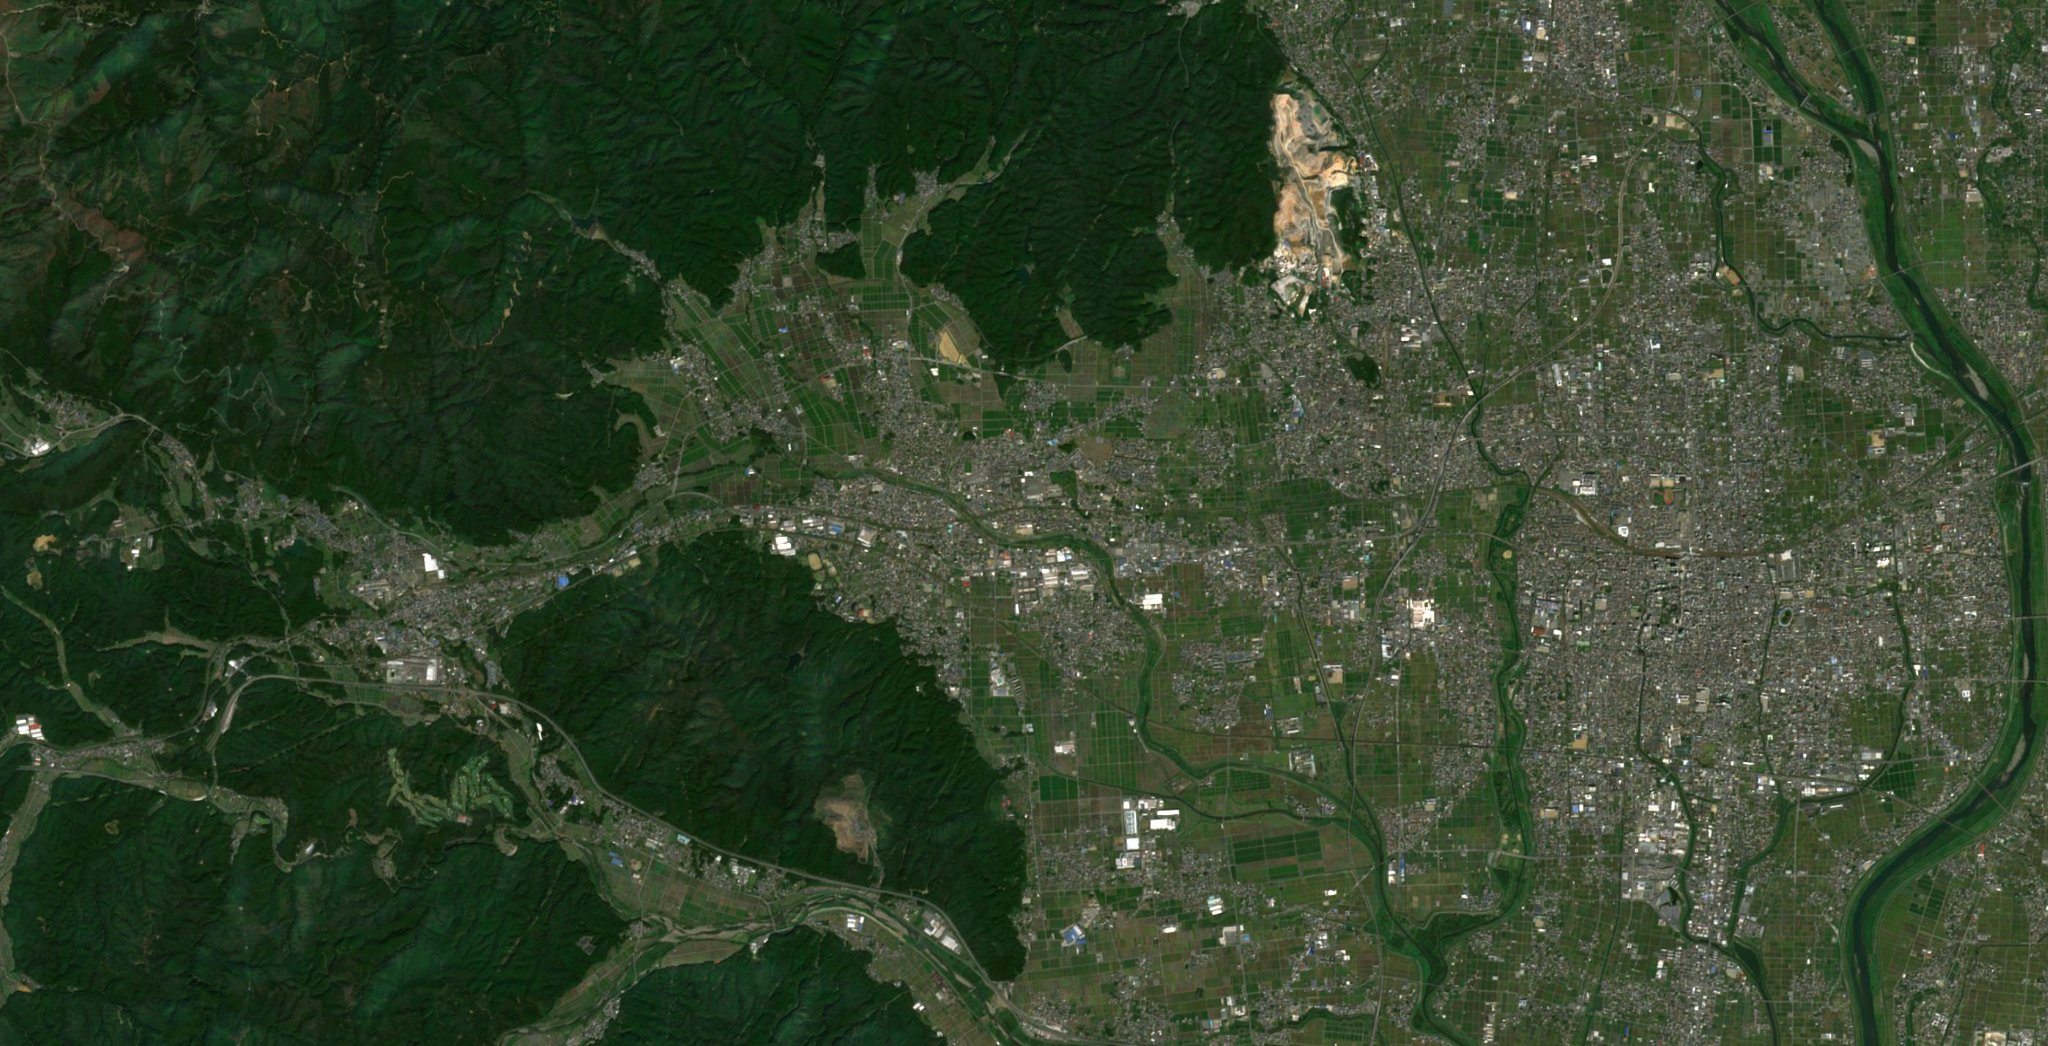
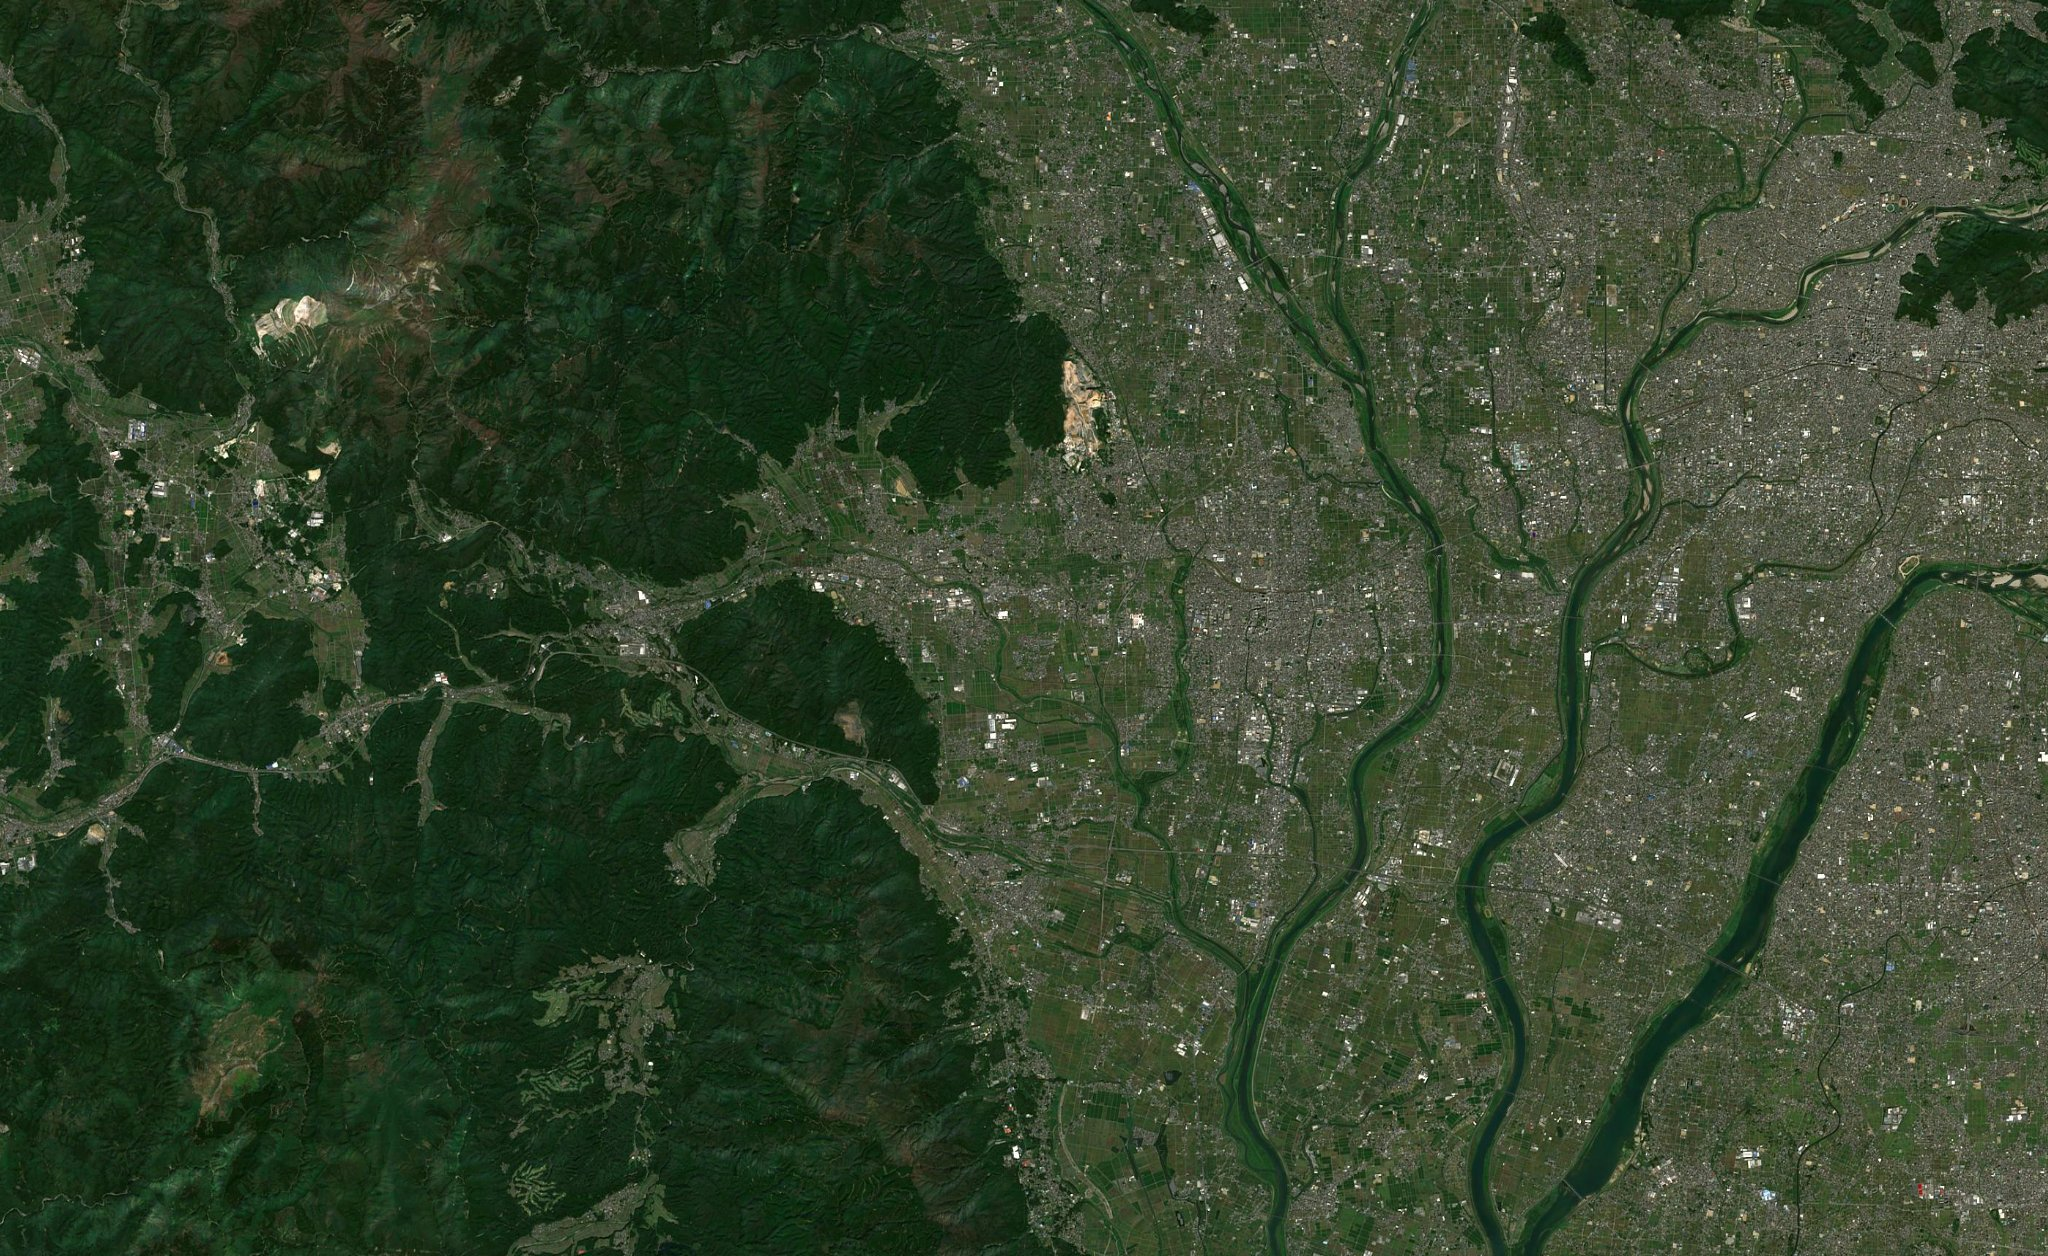
feat: 周邊地標標註 + 戰略鏡頭拉近(地圖填滿畫面)
- 擴大版 DEM(約5倍面積,關原~大垣~岐阜)+ 對應衛星圖
- 新增周邊地標:伊吹山、池田山、養老山、揖斐川、長良川、木曽川
- 戰略鏡頭距離大幅拉近(大垣300→195、夜行軍400→255等)+ 降仰角,
  地形填滿畫面、灰色空白大減

diff --git a/data/storyboard.js b/data/storyboard.js
@@ -12,14 +12,14 @@ window.SEKI = window.SEKI || {};
 
 SEKI.storyboard = [
   /* ---------------- 戰略階段（戰前一週） ---------------- */
-  { t:-10, hold:13, cam:{lng:136.610, lat:35.366, dist:300, az:35, el:36, orbit:0.5},
+  { t:-10, hold:13, cam:{lng:136.560, lat:35.366, dist:195, az:35, el:30, orbit:0.5},
     dateLabel:"慶長五年九月十四日 · 美濃", title_zh:"大垣對峙 · 兩軍集結",
     title_en:"The Standoff at Ōgaki",
     narration_zh:"石田三成以大垣城為前線據點，集結西軍；德川家康率東軍主力進駐西方的赤坂、岡山，兩軍隔濃尾平原對峙。八月底岐阜城已先陷落，西軍戰略陷於被動。",
     commanders:[{zh:"石田三成",en:"Ishida Mitsunari"},{zh:"德川家康",en:"Tokugawa Ieyasu"}],
     focus:["ishida","tokugawa"], side:"both" },
 
-  { t:-9, hold:11, cam:{lng:136.585, lat:35.389, dist:205, az:65, el:34, orbit:0.5},
+  { t:-9, hold:11, cam:{lng:136.585, lat:35.389, dist:150, az:65, el:30, orbit:0.5},
     dateLabel:"九月十四日 · 戰略背景", title_zh:"秀忠遲滯 · 真田封路",
     title_en:"Hidetada Delayed at Ueda",
     narration_zh:"家康嫡子德川秀忠率三萬八千主力沿中山道南下，卻被信濃上田城的真田昌幸父子牽制阻滯，未能趕赴關原。家康手中可用之兵驟減——這場「天下分け目」之戰，竟是以偏師決勝。",
@@ -33,14 +33,14 @@ SEKI.storyboard = [
     commanders:[{zh:"島左近",en:"Shima Sakon"},{zh:"明石全登",en:"Akashi Takenori"}],
     focus:["ishida"], side:"west" },
 
-  { t:-3, hold:13, cam:{lng:136.545, lat:35.360, dist:400, az:20, el:30, orbit:0.4},
+  { t:-3, hold:13, cam:{lng:136.520, lat:35.362, dist:255, az:20, el:27, orbit:0.4},
     dateLabel:"九月十四日 · 夜 · 雨", title_zh:"雨夜強行軍 · 直奔關原",
     title_en:"The Rainy Night March to Sekigahara",
     narration_zh:"是夜西軍冒雨自大垣城出發，沿中山道強行軍十餘里，搶占關原盆地的笹尾山、天滿山一線，封鎖中山道與北國街道咽喉；東軍隨後跟進。決戰之勢就此成形。",
     commanders:[{zh:"石田三成",en:"Ishida Mitsunari"}], focus:["ishida","ukita","shimazu"], side:"west" },
 
   /* ---------------- 決戰階段（九月十五日） ---------------- */
-  { t:7.6, hold:11, cam:{lng:136.466, lat:35.362, dist:230, az:18, el:34, orbit:0.6},
+  { t:7.6, hold:11, cam:{lng:136.466, lat:35.362, dist:165, az:18, el:30, orbit:0.6},
     dateLabel:"慶長五年九月十五日 · 拂曉", title_zh:"關原布陣 · 晨霧瀰漫",
     title_en:"Dawn Deployment at Sekigahara",
     narration_zh:"冒雨夜行軍的西軍搶先抵達關原，沿笹尾山—天滿山—松尾山布成包圍之勢，封鎖中山道；東軍自桃配山方向跟進。濃霧蔽野，兩軍對峙。",
@@ -113,13 +113,13 @@ SEKI.storyboard = [
     narration_zh:"西軍總崩，孤立的島津義弘僅千餘人，竟選擇向家康本陣正面突圍，穿越東軍陣中向伊勢街道退卻——史稱「島津の退き口」，以慘烈犧牲換得主將生還。",
     commanders:[{zh:"島津義弘",en:"Shimazu Yoshihiro"}], focus:["shimazu","tokugawa"], side:"west" },
 
-  { t:14.0, hold:12, cam:{lng:136.466, lat:35.364, dist:215, az:14, el:34, orbit:0.5},
+  { t:14.0, hold:12, cam:{lng:136.466, lat:35.364, dist:165, az:14, el:30, orbit:0.5},
     dateLabel:"未刻 · 14:00 · 戰終", title_zh:"西軍瓦解 · 天下歸於德川",
     title_en:"The West Army Collapses — Tokugawa Triumphant",
     narration_zh:"開戰僅約六小時，西軍全面崩潰。此役奠定德川家康霸權，三年後開創江戶幕府，日本進入二百六十年太平。",
     commanders:[{zh:"德川家康",en:"Tokugawa Ieyasu"}], focus:["tokugawa"], side:"east" },
 
-  { t:14.5, hold:14, cam:{lng:136.466, lat:35.366, dist:265, az:42, el:40, orbit:0.4},
+  { t:14.5, hold:14, cam:{lng:136.466, lat:35.366, dist:190, az:42, el:34, orbit:0.4},
     dateLabel:"戰後 · Aftermath", title_zh:"戰後 · 天下歸德川",
     title_en:"Aftermath — The Realm Falls to Tokugawa",
     narration_zh:"石田三成、小西行長、安國寺惠瓊被捕，於京都六条河原處刑；西軍諸將改易減封，居城佐和山旋即陷落。家康盡攬天下實權，慶長八年（1603）受封征夷大將軍，開創江戶幕府——日本自此進入二百六十餘年太平。",

diff --git a/data/geography.js b/data/geography.js
@@ -58,6 +58,14 @@ SEKI.geography = {
     { name_zh:"藤川", name_ja:"藤川", type:"river", lng:136.4560, lat:35.3640, h:120, note:"關原盆地中央小河，西軍各隊沿河布陣" },
     { name_zh:"杭瀬川", name_ja:"杭瀬川", type:"river", lng:136.5972, lat:35.3480, h:10, note:"大垣城西，決戰前一日「杭瀬川之戰」西軍小勝" },
 
+    /* --- 擴大範圍周邊地標（山・川・平原） ----------------------- */
+    { name_zh:"伊吹山", name_ja:"伊吹山", type:"mountain", lng:136.4136, lat:35.4185, h:1377, note:"關原西北最高峰（標高1377m），近江・美濃國界" },
+    { name_zh:"池田山", name_ja:"池田山", type:"mountain", lng:136.5494, lat:35.4319, h:924, note:"南宮山北方，濃尾平原西緣" },
+    { name_zh:"養老山", name_ja:"養老山", type:"mountain", lng:136.5080, lat:35.2950, h:859, note:"關原南方養老山地" },
+    { name_zh:"揖斐川", name_ja:"揖斐川", type:"river", lng:136.6550, lat:35.3300, h:5, note:"濃尾平原西側大河，流經大垣東" },
+    { name_zh:"長良川", name_ja:"長良川", type:"river", lng:136.7400, lat:35.4050, h:8, note:"流經岐阜的大河" },
+    { name_zh:"木曽川", name_ja:"木曽川", type:"river", lng:136.7900, lat:35.3550, h:8, note:"濃尾平原東側大河，岐阜城之戰東軍渡河處" },
+
     /* --- 街道代表點 --------------------------------------------- */
     { name_zh:"中山道", name_ja:"中山道", type:"road", lng:136.4660, lat:35.3630, h:125, note:"江戶—京都幹道，貫穿關原盆地，東軍主進軍路" },
     { name_zh:"北國街道", name_ja:"北国街道", type:"road", lng:136.4575, lat:35.3730, h:135, note:"笹尾山北側分歧，通往北陸，三成扼此要衝" },

diff --git a/fetch_dem.py b/fetch_dem.py
@@ -2,10 +2,10 @@
 """抓取關原一帶 SRTM 30m 高程，存成 data/heightmap.js"""
 import json, time, urllib.request, urllib.parse, sys
 
-# 擴大涵蓋 關原盆地 ~ 大垣城（東),以呈現戰前戰略調動與雨夜強行軍
-LNG_MIN, LNG_MAX = 136.420, 136.660   # 西:關原西緣  東:大垣城以東
-LAT_MIN, LAT_MAX = 35.320, 35.420     # 南:南宮山    北:笹尾山/赤坂
-COLS, ROWS = 97, 41                    # 約 230m 解析度
+# 大幅擴大顯示範圍(約 5 倍面積):關原以西 ~ 岐阜以東、南北各延伸,填滿畫面
+LNG_MIN, LNG_MAX = 136.320, 136.800   # 西:關原以西   東:岐阜城以東
+LAT_MIN, LAT_MAX = 35.240, 35.480     # 南北各延伸
+COLS, ROWS = 161, 99                   # 約 270m 解析度(更大範圍)
 API = "https://api.opentopodata.org/v1/srtm30m"
 
 # 由南到北(row 0 = LAT_MIN)、由西到東(col 0 = LNG_MIN)建格點